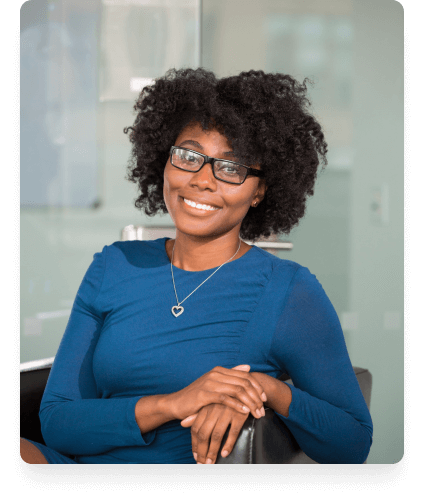
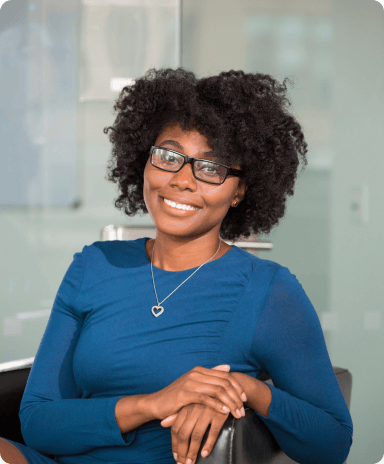
reusable testimonial

diff --git a/src/App.jsx b/src/App.jsx
@@ -66,6 +66,23 @@ function App() {
       <section className="component-section">
         <h2 className="component-section__title">Testimonials</h2>
         <div className="component-section__main testimonials">
+          <TestimonialPic pic={testimonialHeadshot}>
+            <TestimonialPic.Text
+              author="May Andersons"
+              company="Workcation, CTO"
+            >
+              Lorem ipsum dolor sit amet, consectetur adipiscing elit. Sed urna
+              nulla vitae laoreet augue. Amet feugiat est integer dolor auctor
+              adipiscing nunc urna, sit.
+            </TestimonialPic.Text>
+          </TestimonialPic>
+        </div>
+      </section>
+
+      {/* Testimonials */}
+      <section className="component-section">
+        <h2 className="component-section__title">Testimonials</h2>
+        <div className="component-section__main testimonials">
           <TestimonialPic></TestimonialPic>
         </div>
       </section>

diff --git a/src/components/TestimonialPic/TestimonialPic.jsx b/src/components/TestimonialPic/TestimonialPic.jsx
@@ -4,6 +4,7 @@ import "../../scss/testimonial.scss";
 export default function TestimonialPic({
   pic = defaultPic,
   alt = "Testimonial Headshot",
+  children,
 }) {
   return (
     <div className="testimonial-pic">
@@ -25,17 +26,7 @@ export default function TestimonialPic({
             fillOpacity="0.25"
           />
         </svg>
-        <q className="testimonial-pic__text__quote">
-          Lorem ipsum dolor sit amet, consectetur adipiscing elit. Sed urna
-          nulla vitae laoreet augue. Amet feugiat est integer dolor auctor
-          adipiscing nunc urna, sit.
-        </q>
-        <div className="testimonial-pic__text__source">
-          <p className="testimonial-pic__text__source__author">May Andersons</p>
-          <p className="testimonial-pic__text__source__company">
-            Workcation, CTO
-          </p>
-        </div>
+        {children}
       </div>
     </div>
   );

diff --git a/src/scss/app.scss b/src/scss/app.scss
@@ -21,6 +21,7 @@ body {
   margin: 0;
   min-width: 320px;
   min-height: 100vh;
+  background-color: #dee4e7;
 }
 
 h3 {
@@ -29,6 +30,7 @@ h3 {
 
 .main {
   padding: 10px;
+  max-width: 1378px;
   .component-section {
     display: flex;
     flex-direction: column;
@@ -56,4 +58,13 @@ h3 {
 .cards {
   justify-content: center;
   margin-top: 30px !important;
+}
+
+.testimonials {
+  margin-top: 40px !important;
+  margin-bottom: 40px;
+  @media only screen and (max-width: 768px) {
+    margin-top: 130px !important;
+    margin-bottom: 0;
+  }
 }

diff --git a/src/components/TestimonialPic/TestimonialText.jsx b/src/components/TestimonialPic/TestimonialText.jsx
@@ -1,0 +1,15 @@
+export default function TestimonialText({
+  children,
+  author = "Unknown",
+  company = "",
+}) {
+  return (
+    <>
+      <q className="testimonial-pic__text__quote">{children}</q>
+      <div className="testimonial-pic__text__source">
+        <p className="testimonial-pic__text__source__author">{author}</p>
+        <p className="testimonial-pic__text__source__company">{company}</p>
+      </div>
+    </>
+  );
+}

diff --git a/src/scss/testimonial.scss b/src/scss/testimonial.scss
@@ -6,9 +6,14 @@
   padding: 2rem;
   gap: 1.5rem;
   &__image {
+    display: flex;
+    align-items: center;
     img {
       max-width: 384px;
       border-radius: 12px;
+      object-fit: cover;
+      box-shadow: 0px 10px 10px -5px rgba(0, 0, 0, 0.04),
+        0px 20px 25px -5px rgba(0, 0, 0, 0.1);
     }
   }
   &__text {

diff --git a/src/components/TestimonialPic/index.jsx b/src/components/TestimonialPic/index.jsx
@@ -1,3 +1,6 @@
 import TestimonialPic from "./TestimonialPic";
+import TestimonialText from "./TestimonialText";
+
+TestimonialPic.Text = TestimonialText;
 
 export default TestimonialPic;
